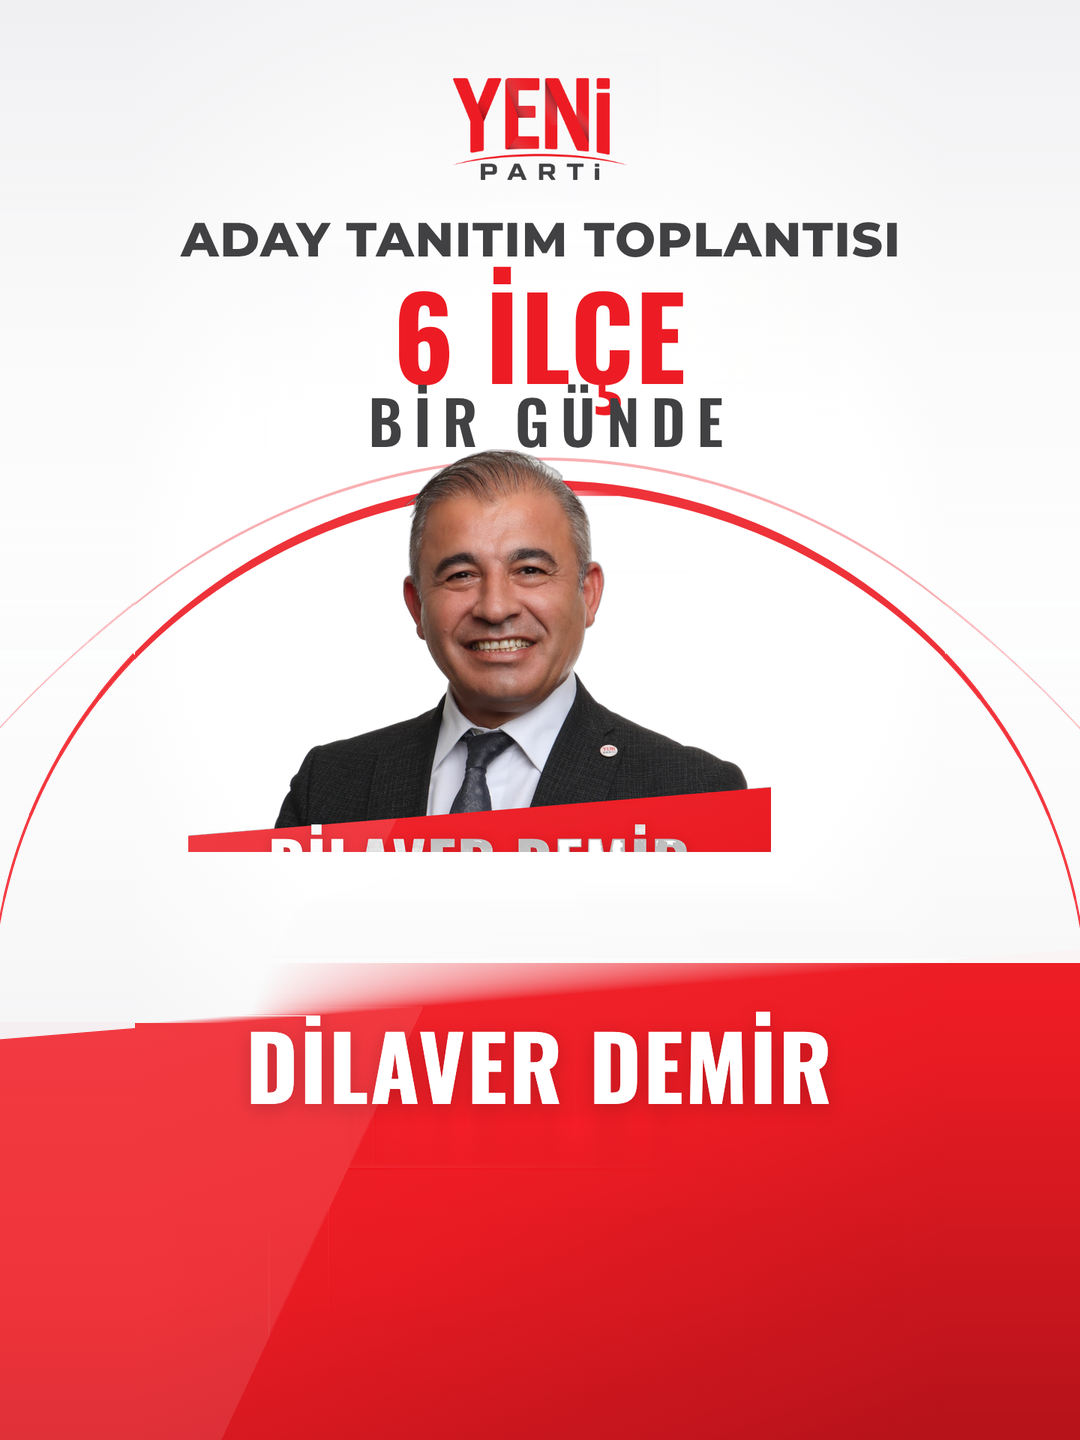
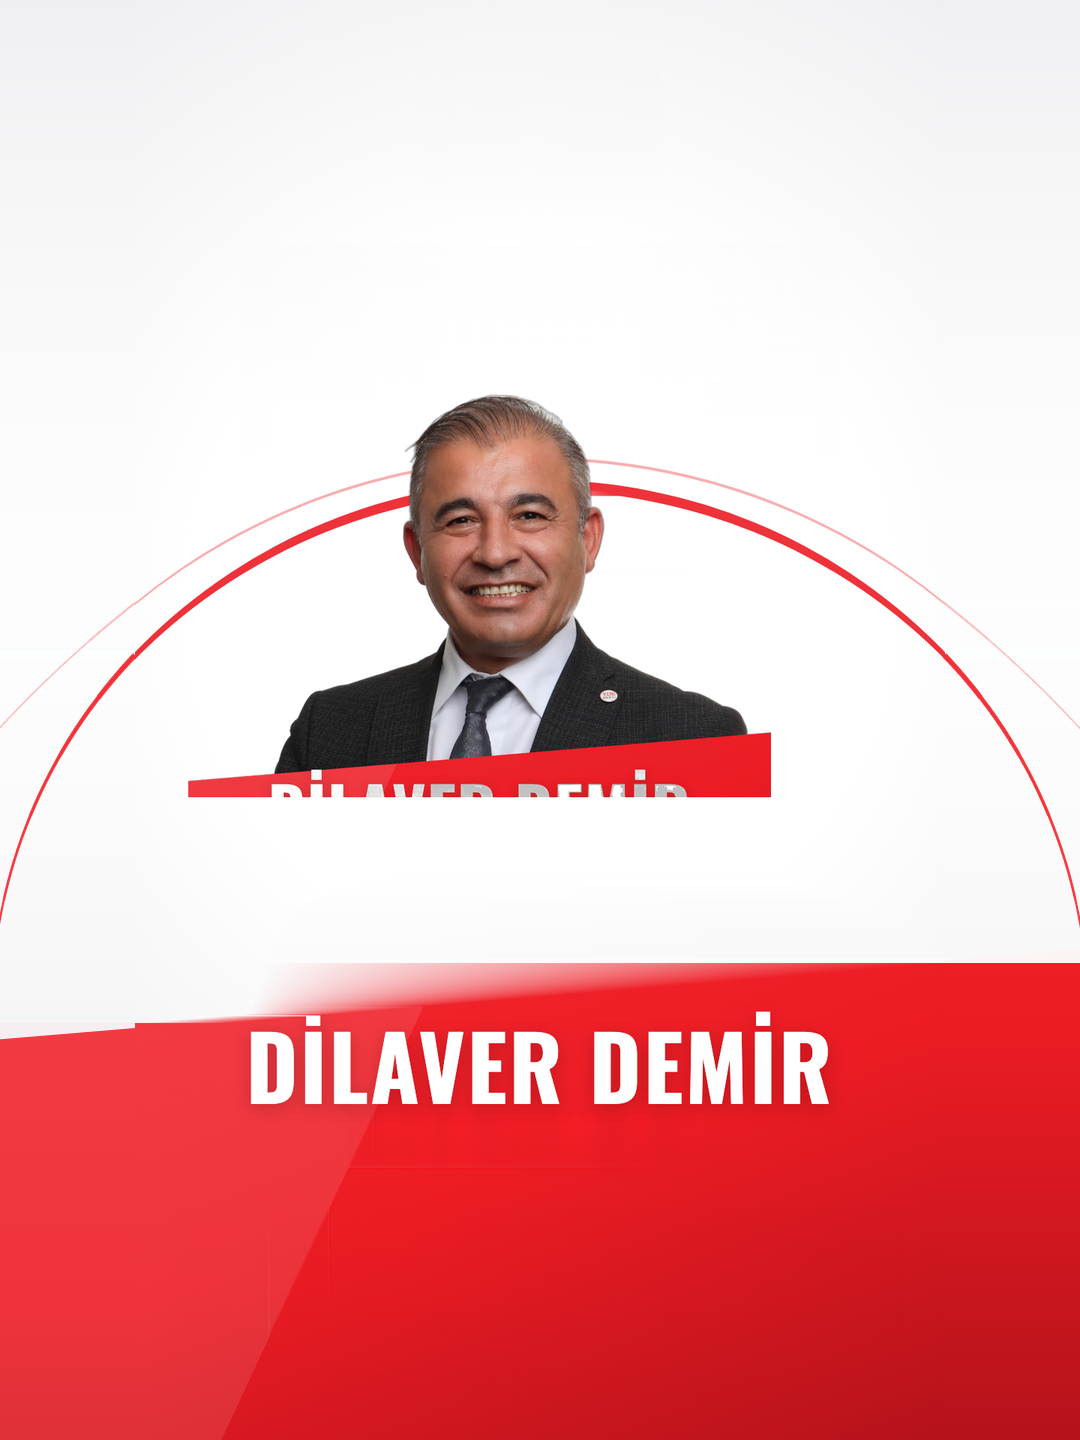
6 ilçe gönderisi: başlık büyütüldü, '6 İlçe Bir Günde' kaldırıldı, ilçeler büyüdü
Claude-Session: https://claude.ai/code/session_01SatttGbgBLoCnk9KGLypWv

Changed region(s): [[0.1528, 0.1562, 0.8556, 0.5938], [0.4278, 0.0312, 0.5806, 0.125]]

diff --git a/tasarim/kisisel/incirliova-orgut/alti-ilce-post.html b/tasarim/kisisel/incirliova-orgut/alti-ilce-post.html
@@ -6,28 +6,35 @@
 html,body{margin:0;width:1080px;height:1440px;overflow:hidden}
 body{position:relative;background:url(alti-ilce-post-zemin.png) 0 0/1080px 1440px no-repeat}
 .panel{position:absolute;inset:0;background:linear-gradient(100deg,#EF343C 0%,#ED1C24 30%,#E31B23 60%,#D5171F 100%);
-  clip-path:polygon(0 820px,1080px 752px,1080px 1440px,0 1440px)}
+  clip-path:polygon(0 770px,1080px 702px,1080px 1440px,0 1440px)}
 .m{position:absolute;left:0;width:1080px;text-align:center;white-space:nowrap;line-height:1}
-.isim{top:828px;font:92px O7;letter-spacing:2.5px;color:#fff;text-shadow:0 4px 14px rgba(0,0,0,.18)}
-.hap{position:absolute;left:50%;top:946px;height:58px;transform:translateX(-50%);background:#fff;border-radius:6px;
+.isim{top:780px;font:94px O7;letter-spacing:2.5px;color:#fff;text-shadow:0 4px 14px rgba(0,0,0,.18)}
+.hap{position:absolute;left:50%;top:900px;height:60px;transform:translateX(-50%);background:#fff;border-radius:6px;
   display:flex;align-items:center;padding:0 34px;font:31px M8;letter-spacing:.18em;color:var(--kirmizi);white-space:nowrap}
 .hap span{margin-right:-.18em}
-.tarih{position:absolute;left:30px;right:30px;top:1014px;height:58px;display:flex;align-items:center;justify-content:center;gap:16px;color:#fff;
+.tarih{position:absolute;left:30px;right:30px;top:972px;height:62px;display:flex;align-items:center;justify-content:center;gap:16px;color:#fff;
   border-top:2px solid rgba(255,255,255,.35);border-bottom:2px solid rgba(255,255,255,.35)}
 .tarih svg{width:44px;height:44px}
-.tarih b{font:50px/1 O7;font-weight:normal;letter-spacing:.02em}
-.tarih span{font:50px/1 O7;letter-spacing:.02em;color:var(--etiket)}
-.izgara{position:absolute;left:24px;right:24px;top:1084px;display:grid;grid-template-columns:1fr 1fr;gap:9px 12px}
-.kart{height:94px;display:flex;align-items:center;gap:12px;padding:0 6px 0 8px;box-sizing:border-box;border-radius:14px;
+.tarih b{font:54px/1 O7;font-weight:normal;letter-spacing:.02em}
+.tarih span{font:54px/1 O7;letter-spacing:.02em;color:var(--etiket)}
+.izgara{position:absolute;left:16px;right:16px;top:1048px;display:grid;grid-template-columns:1fr 1fr;gap:10px 10px}
+.kart{height:104px;display:flex;align-items:center;gap:10px;padding:0 4px 0 7px;box-sizing:border-box;border-radius:14px;
   background:rgba(0,0,0,.18);box-shadow:inset 0 0 0 2px rgba(255,255,255,.16);color:#fff}
-.kart .saat{flex:none;width:190px;height:80px;border-radius:10px;background:#fff;color:var(--kirmizi);display:flex;align-items:center;justify-content:center;font:72px/1 O7}
+.kart .saat{flex:none;width:186px;height:88px;border-radius:10px;background:#fff;color:var(--kirmizi);display:flex;align-items:center;justify-content:center;font:76px/1 O7}
 .kart .yer{display:flex;flex-direction:column;min-width:0}
-.kart b{font:54px/1 O7;font-weight:normal;letter-spacing:.01em;white-space:nowrap}
-.kart span{font:27px/1.05 M7;margin-top:4px;white-space:nowrap;color:var(--etiket)}
-.slogan{position:absolute;right:26px;top:548px;border-left:7px solid var(--kirmizi);padding:3px 0 5px 18px;white-space:nowrap;font:46px/1.13 O7;color:var(--koyu)}
+.kart b{font:57px/1 O7;font-weight:normal;letter-spacing:.01em;white-space:nowrap}
+.kart span{font:29px/1.05 M7;margin-top:4px;white-space:nowrap;color:var(--etiket)}
+.slogan{position:absolute;right:26px;top:482px;border-left:7px solid var(--kirmizi);padding:3px 0 5px 18px;white-space:nowrap;font:46px/1.13 O7;color:var(--koyu)}
 .slogan{background:#FDFDFD;box-shadow:0 0 14px 10px #FDFDFD}
 .slogan em{display:block;font-style:normal;color:var(--kirmizi)}
+.baslik1{top:150px;font:124px O7;color:var(--kirmizi);letter-spacing:.01em}
+.baslik2{top:288px;font:60px O7;color:var(--koyu);letter-spacing:.2em;padding-left:.2em}
+@font-face{font-family:O6;src:url(../../fontlar-gecici/Oswald-600.ttf)}
+.ust-logo{position:absolute;left:50%;top:38px;width:170px;transform:translateX(-50%)}
 </style><body>
+<img class="ust-logo" src="yp-logo-kirpik.png">
+<div class="m baslik1">ADAY TANITIM</div>
+<div class="m baslik2">TOPLANTISI</div>
 <div class="slogan">SÖZ, YETKİ,<br>KARAR<em>ARTIK<br>ÜYELERİMİZİN!</em></div>
 <div class="panel"></div>
 <div class="m isim">DİLAVER DEMİR</div>
